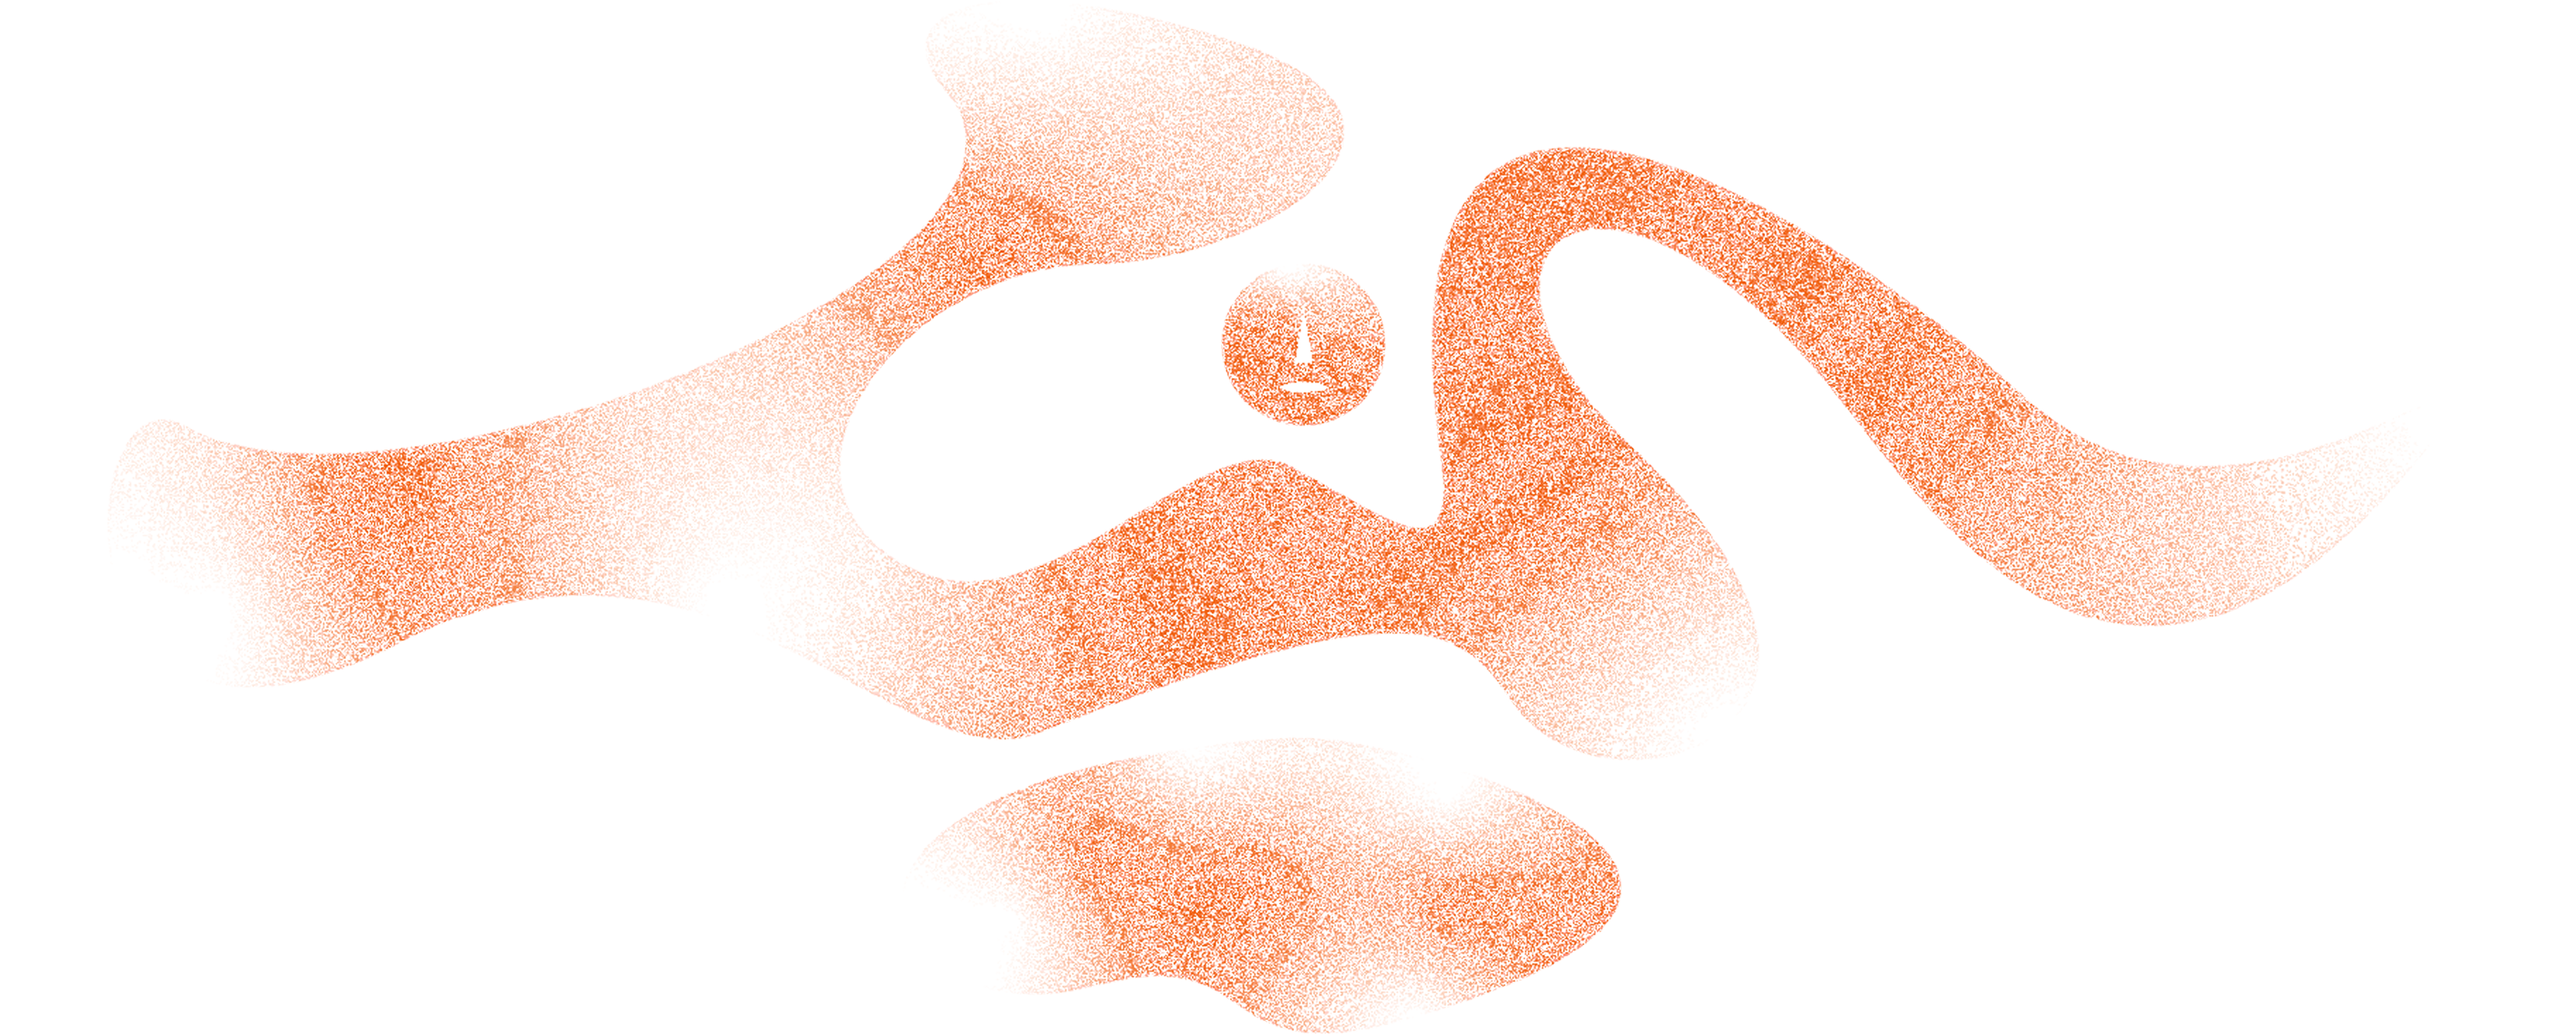
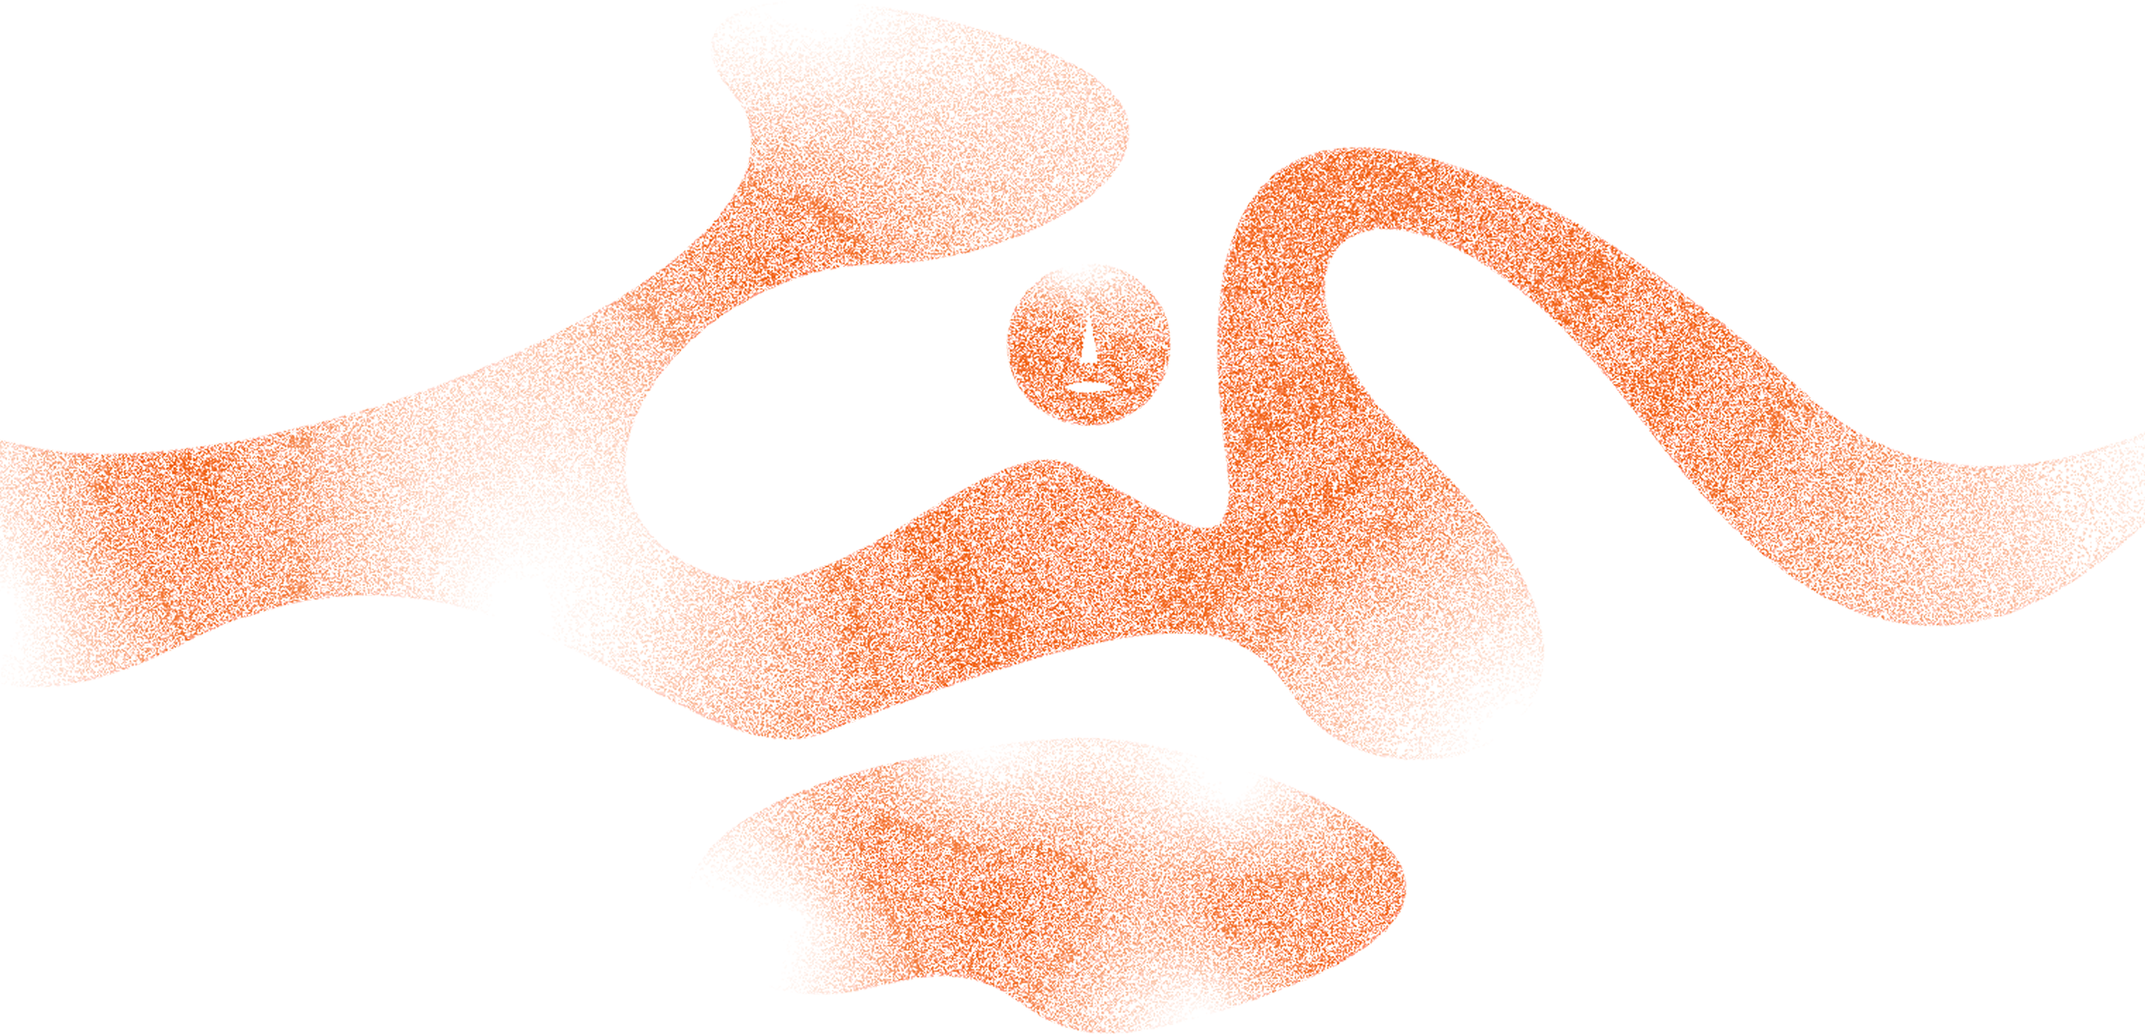
header

Changed region(s): [[0.2812, 0.1236, 1.0, 1.0], [0.0, 0.0309, 0.5312, 0.6487]]

diff --git a/src/components/Homepage.vue b/src/components/Homepage.vue
@@ -68,30 +68,38 @@ import Horizontal from './UniqueHorizontal.vue'
         <h3>Nos offres</h3>
       </div>
       <div class="col-12">
-        <p><strong>SAND propose des abonnements adaptés à vos besoins :</strong></p>
+        <p id="text-margin">
+          <strong>SAND propose des abonnements adaptés à vos besoins :</strong>
+        </p>
       </div>
     </div>
-    <div class="row">
+    <div class="row" id="offers-margin">
       <div class="col-lg-4">
-        <h4>Découverte</h4>
-        <p>
-          <strong>3 rêves par mois</strong> pour explorer en douceur. Choisissez entre la Cité des
-          Rêves ou l’Espace Personnel <strong>en fonction de vos besoins</strong>.
-        </p>
+        <div class="card-color">
+          <h4>Découverte</h4>
+          <p>
+            <strong>3 rêves par mois</strong> pour explorer en douceur. Choisissez entre la Cité des
+            Rêves ou l’Espace Personnel <strong>en fonction de vos besoins</strong>.
+          </p>
+        </div>
       </div>
       <div class="col-lg-4">
-        <h4>Explorateur</h4>
-        <p>
-          Rêves personnalisés ou accès à la cité des rêves <strong>10 fois par mois</strong> pour
-          une <strong>immersion approfondie</strong>.
-        </p>
+        <div class="card-color">
+          <h4>Explorateur</h4>
+          <p>
+            Rêves personnalisés ou accès à la cité des rêves <strong>10 fois par mois</strong> pour
+            une <strong>immersion approfondie</strong>.
+          </p>
+        </div>
       </div>
       <div class="col-lg-4">
-        <h4>Créateur</h4>
-        <p>
-          Accès à la Cité des Rêves et à l’Espace Personnel pour
-          <strong>façonner votre propre univers</strong>.
-        </p>
+        <div class="card-color">
+          <h4>Créateur</h4>
+          <p>
+            Accès à la Cité des Rêves et à l’Espace Personnel pour
+            <strong>façonner votre propre univers</strong>.
+          </p>
+        </div>
       </div>
     </div>
     <div class="row">
@@ -99,7 +107,7 @@ import Horizontal from './UniqueHorizontal.vue'
         <h4>Commandez votre implant dès aujourd’hui et prenez le contrôle de vos rêves.</h4>
       </div>
       <div class="col-lg-4">
-        <ButtonBase compButton="En savoir plus" />
+        <ButtonBase buttonLink="#/products" compButton="En savoir plus" />
       </div>
     </div>
   </div>
@@ -107,8 +115,11 @@ import Horizontal from './UniqueHorizontal.vue'
 
 <style scoped>
 #sandman {
-  height: 100%;
-  width: 100%;
+  height: auto;
+  width: auto;
+  position: absolute;
+  max-width: 100%;
+  top: 80px;
 }
 
 .img-inside {
@@ -130,5 +141,23 @@ import Horizontal from './UniqueHorizontal.vue'
   position: relative;
   top: -100px;
   z-index: 10;
+}
+
+#text-margin {
+  margin: 0 0 40px;
+}
+
+.card-color {
+  background: var(--color-light-blue);
+  padding: 10px 20px;
+  border-radius: 12px;
+}
+
+h4 {
+  margin: 0 0 10px;
+}
+
+#offers-margin {
+  margin-bottom: 60px;
 }
 </style>
